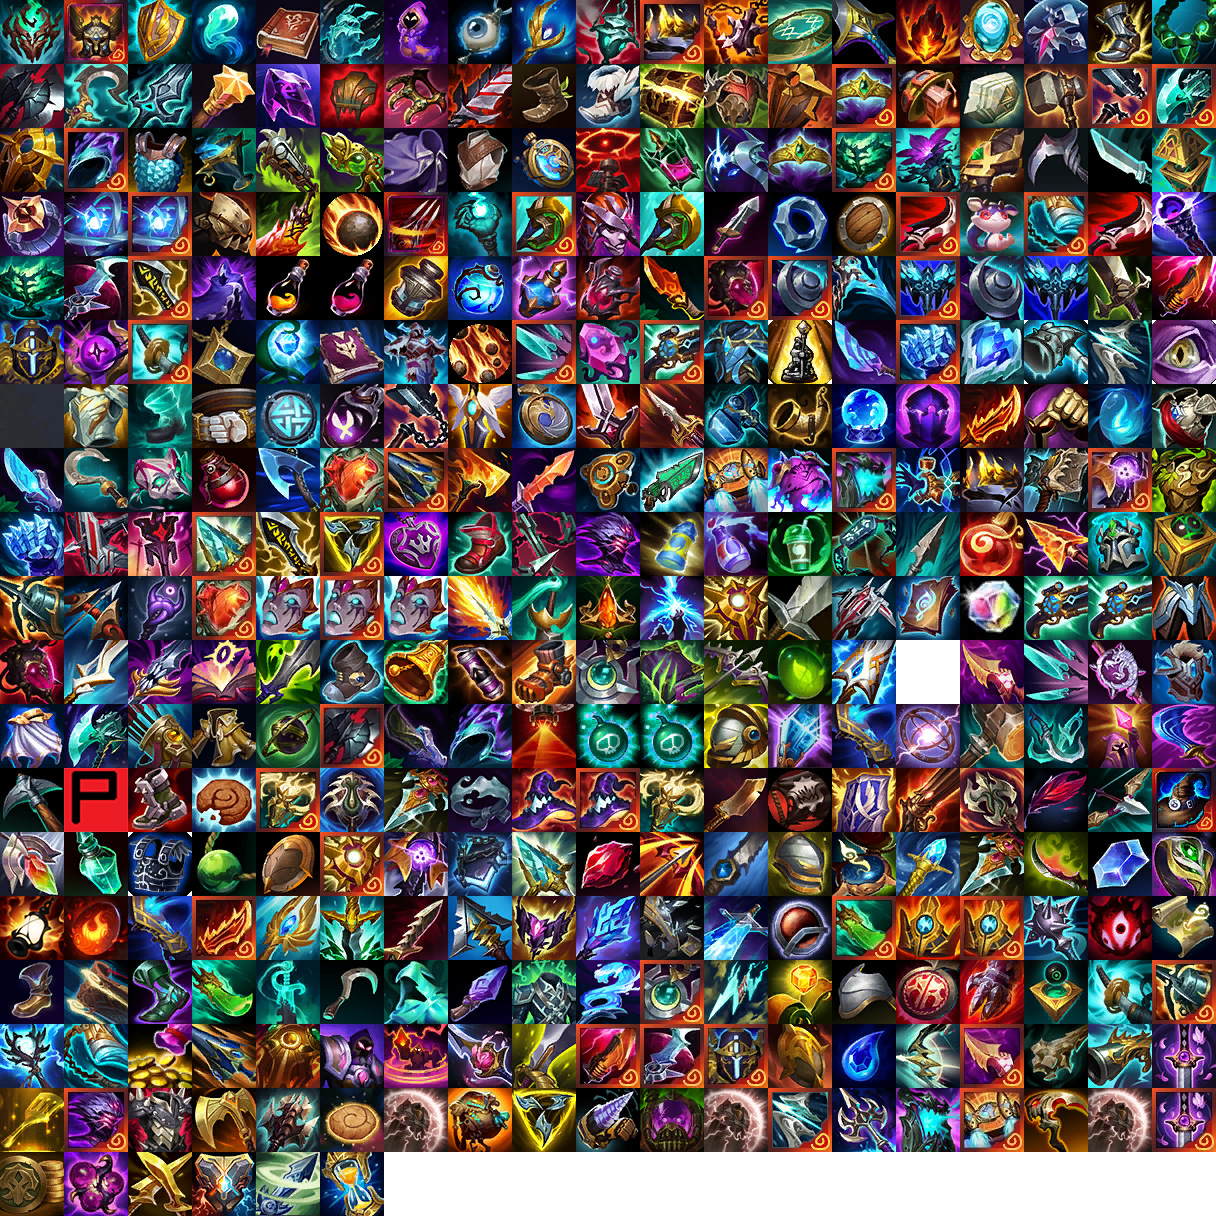
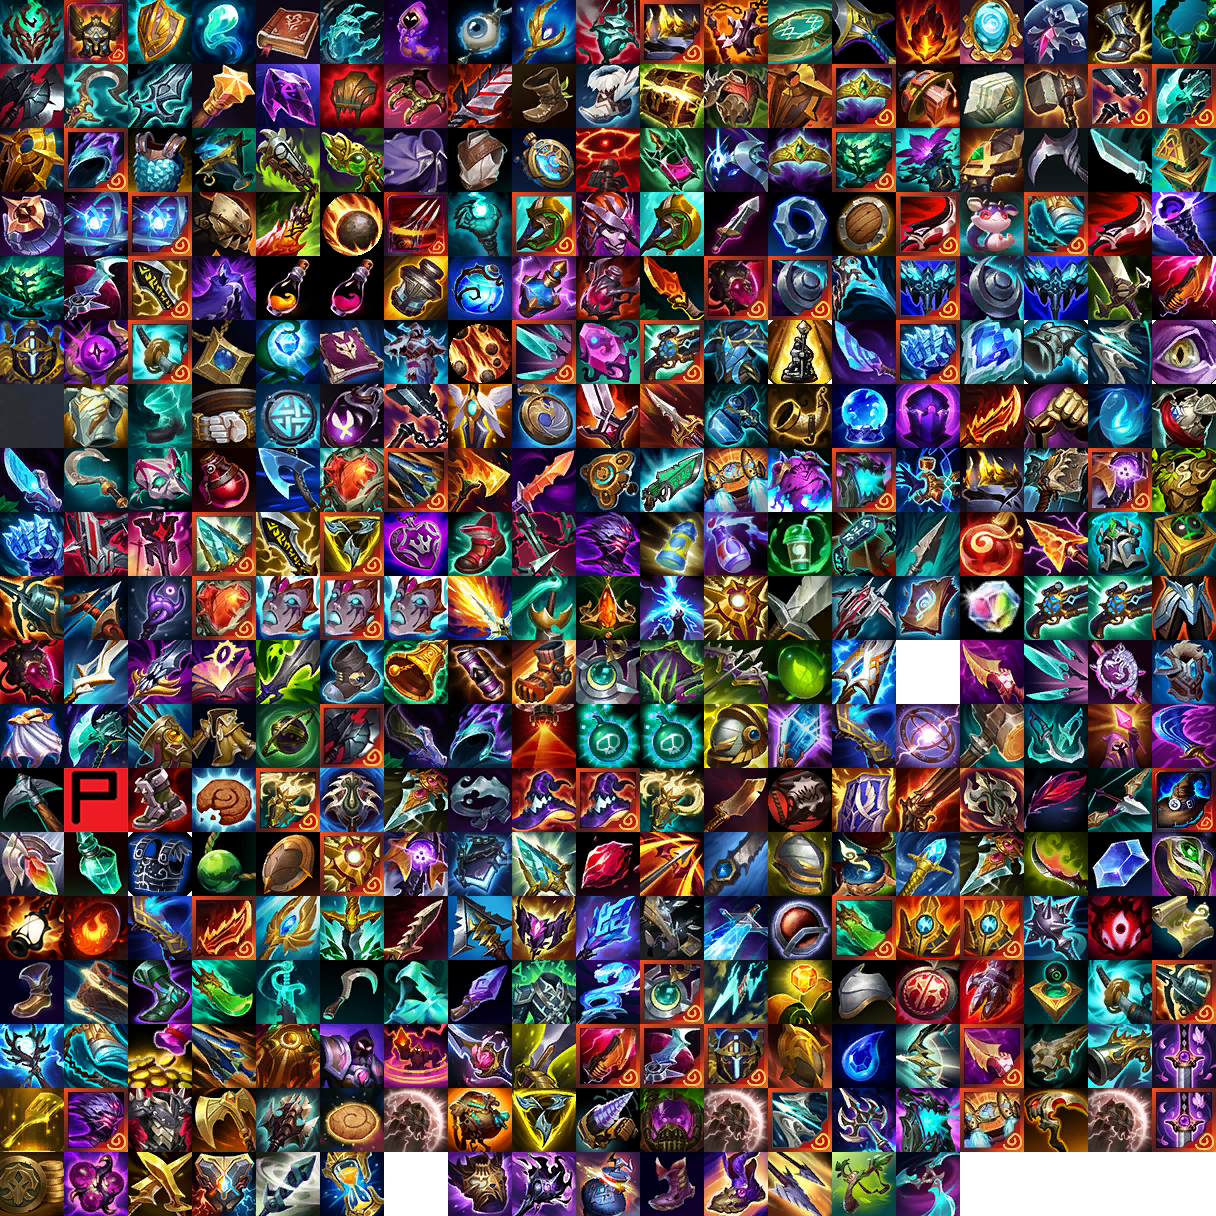
Added support for new items

Changed region(s): [[0.3438, 0.9375, 0.8125, 1.0], [0.1875, 0.9375, 0.2812, 1.0]]

diff --git a/flask/static/items.css b/flask/static/items.css
@@ -4185,3 +4185,99 @@
     display: block;
     background-position: -150px -450px;
 }
+
+.Overlord_s-Bloodmail {
+    width: 25px;
+    height: 25px;
+    padding: 12.3px;
+    border-radius: 15%;
+    background-image: url(/getItemIcons/items.png);
+    background-size: calc(1216px / 2.56) calc(1216px / 2.56);
+    background-repeat: no-repeat;
+    display: block;
+    background-position: -175px -450px;
+}
+
+.Blackfire-Torch {
+    width: 25px;
+    height: 25px;
+    padding: 12.3px;
+    border-radius: 15%;
+    background-image: url(/getItemIcons/items.png);
+    background-size: calc(1216px / 2.56) calc(1216px / 2.56);
+    background-repeat: no-repeat;
+    display: block;
+    background-position: -200px -450px;
+}
+
+.Fated-Ashes {
+    width: 25px;
+    height: 25px;
+    padding: 12.3px;
+    border-radius: 15%;
+    background-image: url(/getItemIcons/items.png);
+    background-size: calc(1216px / 2.56) calc(1216px / 2.56);
+    background-repeat: no-repeat;
+    display: block;
+    background-position: -225px -450px;
+}
+
+.Symbiotic-Boots {
+    width: 25px;
+    height: 25px;
+    padding: 12.3px;
+    border-radius: 15%;
+    background-image: url(/getItemIcons/items.png);
+    background-size: calc(1216px / 2.56) calc(1216px / 2.56);
+    background-repeat: no-repeat;
+    display: block;
+    background-position: -250px -450px;
+}
+
+.Synchronized-Boots {
+    width: 25px;
+    height: 25px;
+    padding: 12.3px;
+    border-radius: 15%;
+    background-image: url(/getItemIcons/items.png);
+    background-size: calc(1216px / 2.56) calc(1216px / 2.56);
+    background-repeat: no-repeat;
+    display: block;
+    background-position: -275px -450px;
+}
+
+.Yun-Tal-Wildarrows {
+    width: 25px;
+    height: 25px;
+    padding: 12.3px;
+    border-radius: 15%;
+    background-image: url(/getItemIcons/items.png);
+    background-size: calc(1216px / 2.56) calc(1216px / 2.56);
+    background-repeat: no-repeat;
+    display: block;
+    background-position: -300px -450px;
+}
+
+.Scout_s-Slingshot {
+    width: 25px;
+    height: 25px;
+    padding: 12.3px;
+    border-radius: 15%;
+    background-image: url(/getItemIcons/items.png);
+    background-size: calc(1216px / 2.56) calc(1216px / 2.56);
+    background-repeat: no-repeat;
+    display: block;
+    background-position: -325px -450px;
+}
+
+.Navori-Flickerblade {
+    width: 25px;
+    height: 25px;
+    padding: 12.3px;
+    border-radius: 15%;
+    background-image: url(/getItemIcons/items.png);
+    background-size: calc(1216px / 2.56) calc(1216px / 2.56);
+    background-repeat: no-repeat;
+    display: block;
+    background-position: -350px -450px;
+}

diff --git a/README.md b/README.md
@@ -67,8 +67,6 @@ To start the app go into the correct directory and run the routes.py file.
 sawa@sawa:~/mainShare/devenv/gitrepos/M-Track/flask$ sudo python3 routes.py
 ```
 
-For now I will be working out of the `http://10.0.0.150/matchHistory` site.
-
 This spawns from the projects web server to refine the process of performign all of the API and SQL calls in the back end and making the front end more digestable. Also revise the data schema in the backend.
 
 - Working out of my ubuntu server for now.
@@ -89,11 +87,7 @@ This spawns from the projects web server to refine the process of performign all
   - `https://www.op.gg/summoners/na/Scyrnn-NA1`
     - `Scyrnn#NA1`
 - Sprite Sheet maker
-
   - `https://www.codeandweb.com/free-sprite-sheet-packer`
-
-- For some reason this user has a riot ID name and tagline but doesnt have a summoner name. So watch out.
-  - https://www.op.gg/summoners/na/BARRRRRRRREL-GPGOD
 
 # Future Ideas
 
